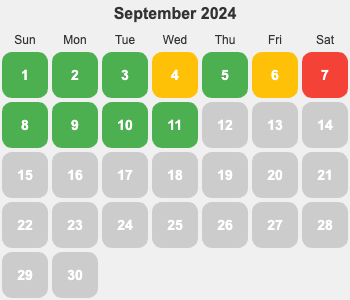
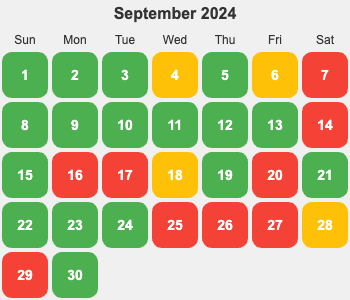
feat: 1001

diff --git a/content/personal/daily/2024-09.md b/content/personal/daily/2024-09.md
@@ -2,11 +2,6 @@
 title: 2024年09月
 ---
 
-## TODO
-1. personal 重构内容的组织(问题是：内容的关系不够清晰)。特别是SOP 结构梳理。
-2. 重塑大脑和佛陀那书整理玩。
-
-
 ![](./images/2024-09.png)
 
 <details>
@@ -14,7 +9,7 @@ title: 2024年09月
 
 | 日期  | 有氧运动(如跑步 25 分钟)(G*1) | 每周跑 5 公里(G*4)   | 冥想(G*2) | 吃早饭(B*1)   | 吃夜宵(B*2) | 熬夜(B*5)  |
 |:----:|:--------------------------:|:------------------:|:---------:|:-----------:|:-----------:|:---------:|
-|  30  |        0                   |         0          |     0     |      0      |      0      |     0     |
+|  30  |        0                   |         1          |     0     |      0      |      0      |     0     |
 |  29  |        1                   |         0          |     1     |      1      |      0      |     1     |
 |  28  |        0                   |         0          |     0     |      0      |      0      |     0     |
 |  27  |        1                   |         0          |     0     |      0      |      1      |     1     |
@@ -48,7 +43,7 @@ title: 2024年09月
 ## 概览
 * 体力锻炼
   * 跑步 25分钟。完成情况: 26/25+。 
-  * 每周跑一次 5 公里。完成总数: 5/4+。
+  * 每周跑一次 5 公里。完成总数: 6/4+。
 * 正念
   * 冥想 15 分钟。完成情况: 15/15+。 
   * 蹲坑不玩手机。剩余次数: 4/5-。
@@ -97,12 +92,13 @@ title: 2024年09月
 
 ## 30
 * 运动
+  * 跑 5 公里。
   * 上斜俯卧撑 30×3; 
 * 学习
   * 多邻国: 7 个单元。
 * 信息
 * 休息
-  * x 睡觉
+  * 11:30 睡觉
 
 ## 29
 * 运动

diff --git a/content/personal/daily/2024-10.md b/content/personal/daily/2024-10.md
@@ -1,0 +1,55 @@
+---
+title: 2024年10月
+---
+
+## TODO
+1. personal 重构内容的组织(问题是：内容的关系不够清晰)。特别是SOP 结构梳理。
+2. 重塑大脑和佛陀那书整理玩。
+3. 导航会有散的问题。将生活拆成一个个场景，用场景来组织导航是不是会比较好。
+
+![](./images/2024-10.png)
+
+<details>
+  <summary>概览明细</summary>
+
+| 日期  | 有氧运动(如跑步 25 分钟)(G*1) | 每周跑 5 公里(G*4)   | 冥想(G*2) | 吃早饭(B*1)   | 吃夜宵(B*2) | 熬夜(B*5)  |
+|:----:|:--------------------------:|:------------------:|:---------:|:-----------:|:-----------:|:---------:|
+|  01  |        1                   |         0          |     0     |      1      |      0      |     0     |
+
+## 概览
+* 体力锻炼
+  * 跑步 25分钟。完成情况: 1/25+。 
+  * 每周跑一次 5 公里。完成总数: 0/4+。
+* 正念
+  * 冥想 15 分钟。完成情况: 0/15+。 
+  * 蹲坑不玩手机。剩余次数: 0/5-。
+* 学习
+  * 多邻国: 5+ 个单元。完成情况: 1/25+。
+* 饮食: 
+  * 不吃早饭。完成情况: 1/5-。
+  * 不吃夜宵。完成情况: 0/5-。
+* 休息: 
+  * 不熬夜。11点30(尽量 11:15)之前睡觉。完成情况:  0/5-。
+
+## Template
+* 运动
+  * 跑步: 25 分钟
+  * 上斜俯卧撑 30×3; 折刀深蹲 20×3; 坐姿屈膝 15×2
+* 正念
+  * 冥想 15 分钟。
+* 学习
+  * 多邻国: 7 个单元。
+* 信息
+* 休息
+  * x 睡觉
+
+</detail>
+
+## 01 国庆节
+* 运动
+  * 跑步: 25 分钟
+  * 折刀深蹲 20×3;
+* 学习
+  * 多邻国: 7 个单元。
+* 休息
+  * x 睡觉

diff --git a/content/personal/sop/content/work/task.md b/content/personal/sop/content/work/task.md
@@ -13,10 +13,21 @@ title: 任务模板
 | 原型图   |          |         |          | 接口协助 |
 
 ## 背景
-放该任务的背景信息。
+放该任务的背景信息。如存在 xx 问题。达成 xx 目标。
+
+## TODO
+放一些测试过程中，零碎的要做的。
+
+1. todo1
+2. todo2
 
 ## 功能
-同时也用来做任务管理。
+| 名称     | 模块     | 状态     |   内容    | 
+| --------| -------- | --------| -------- |
+|         | 模块1     | 未开始  |           | 
+|         | 模块2     | 进行中  |           | 
+|         | 模块3     | 阻塞中  |           | 
+|         | 模块3     | 已完成  |           | 
 
 ## 测试用例
 [测试用例模板](./test-case.md)

diff --git a/content/nav.md b/content/nav.md
@@ -2,8 +2,6 @@
 title: Nav
 ---
 
-TODO: 导航会有散的问题。将生活拆成一个个场景，用场景来组织导航是不是会比较好。
-
 ## 健康
 * [BioloGPT](https://biologpt.com/)
 
